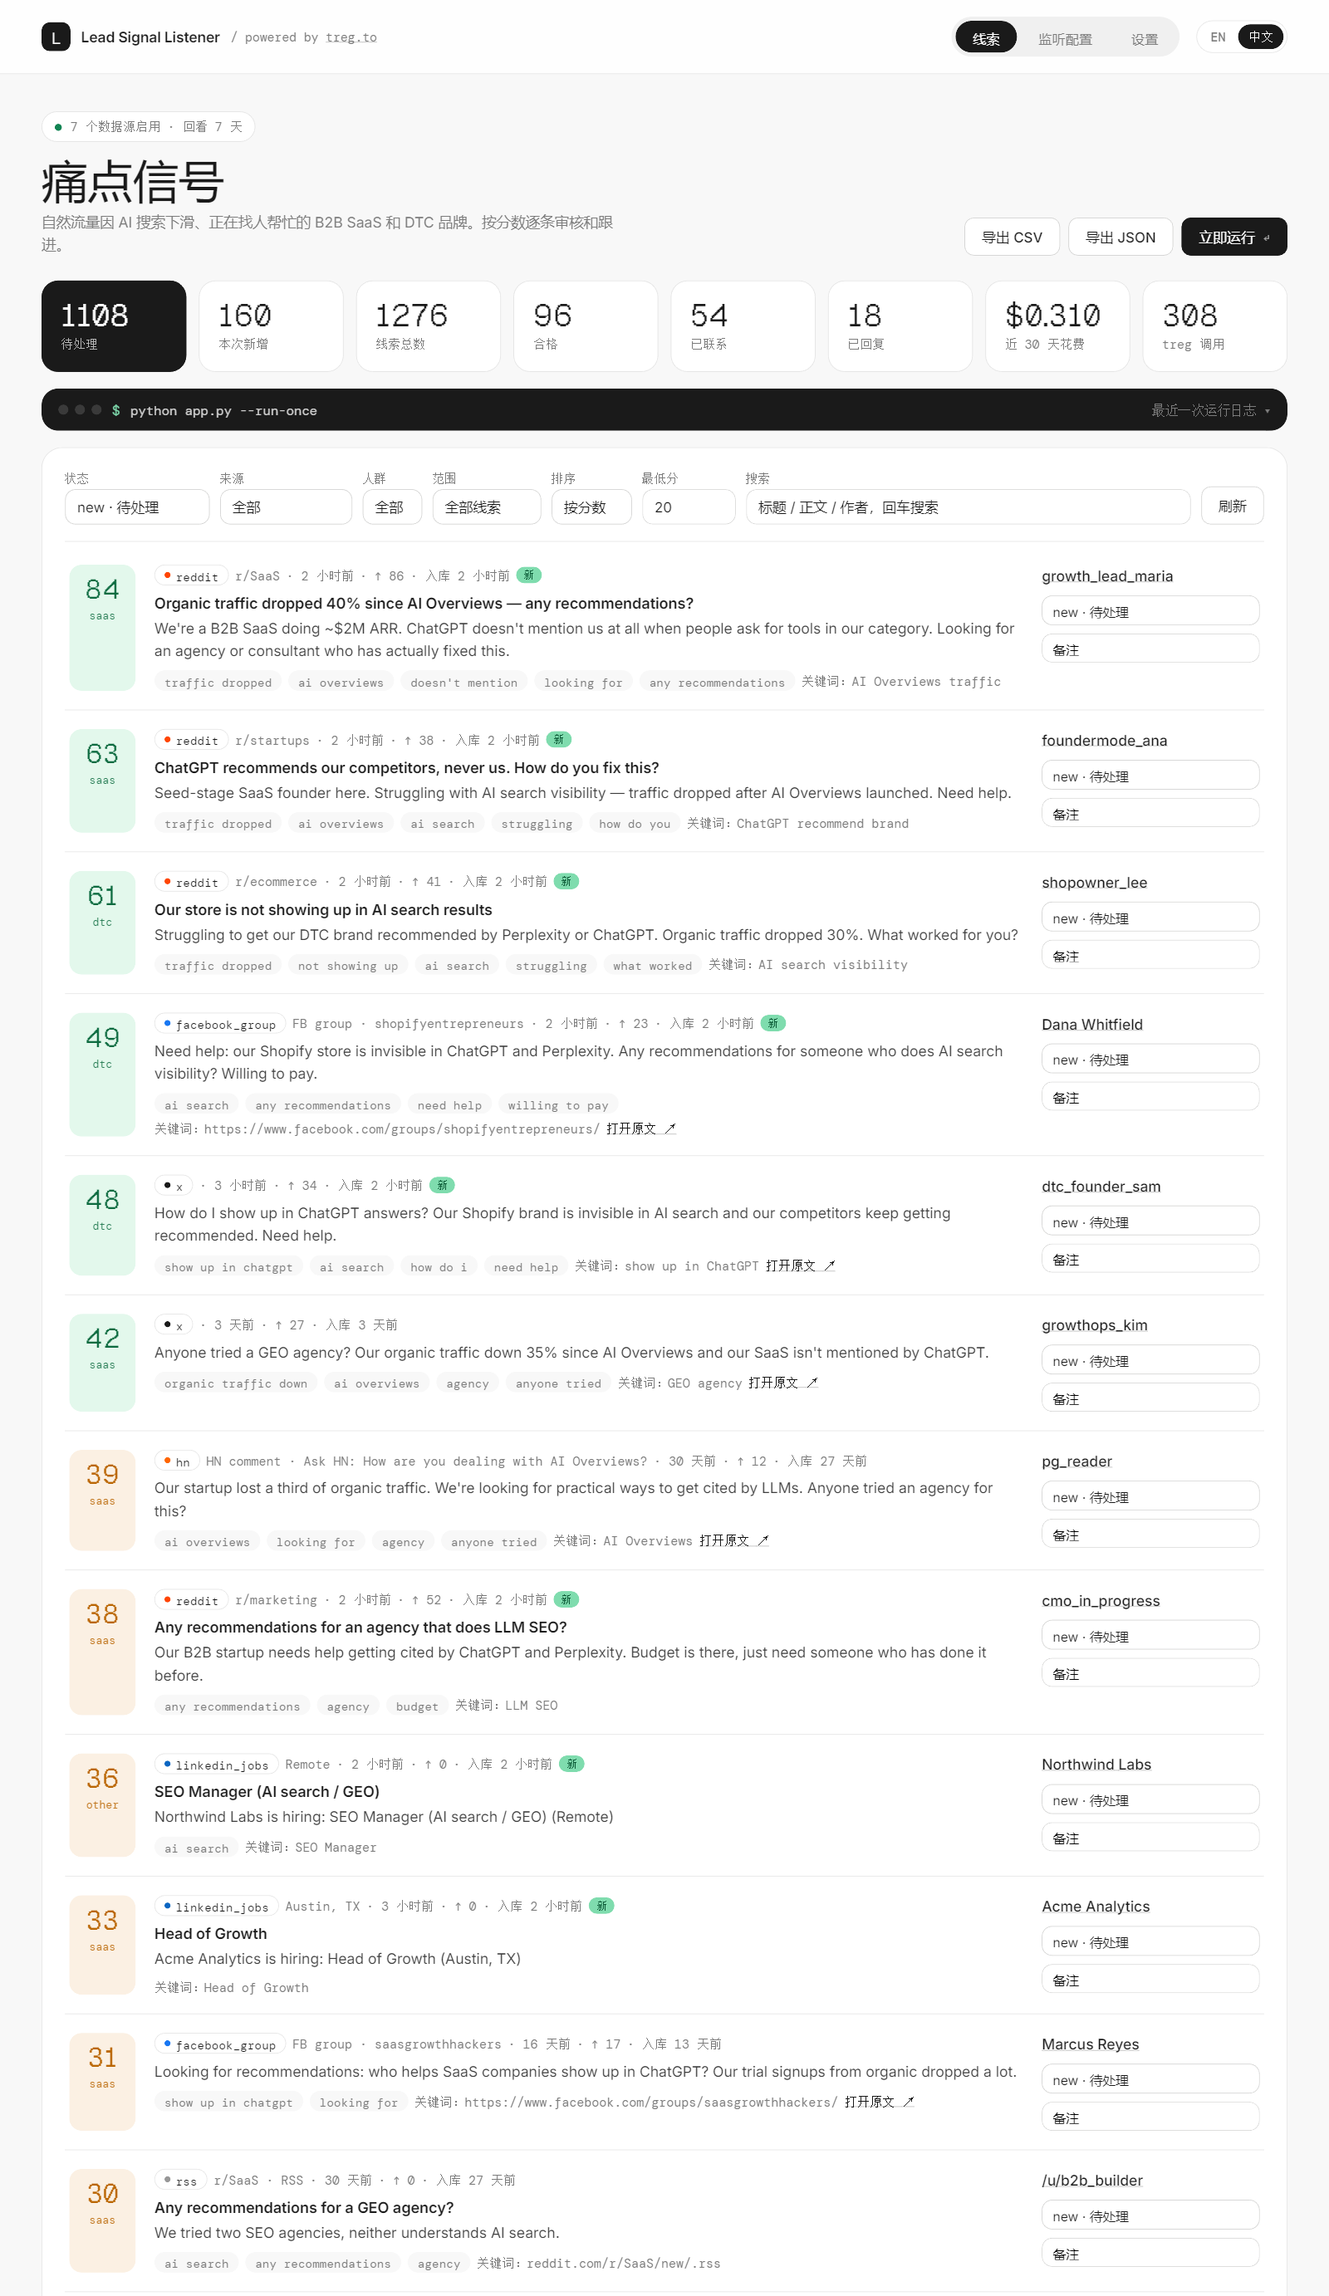
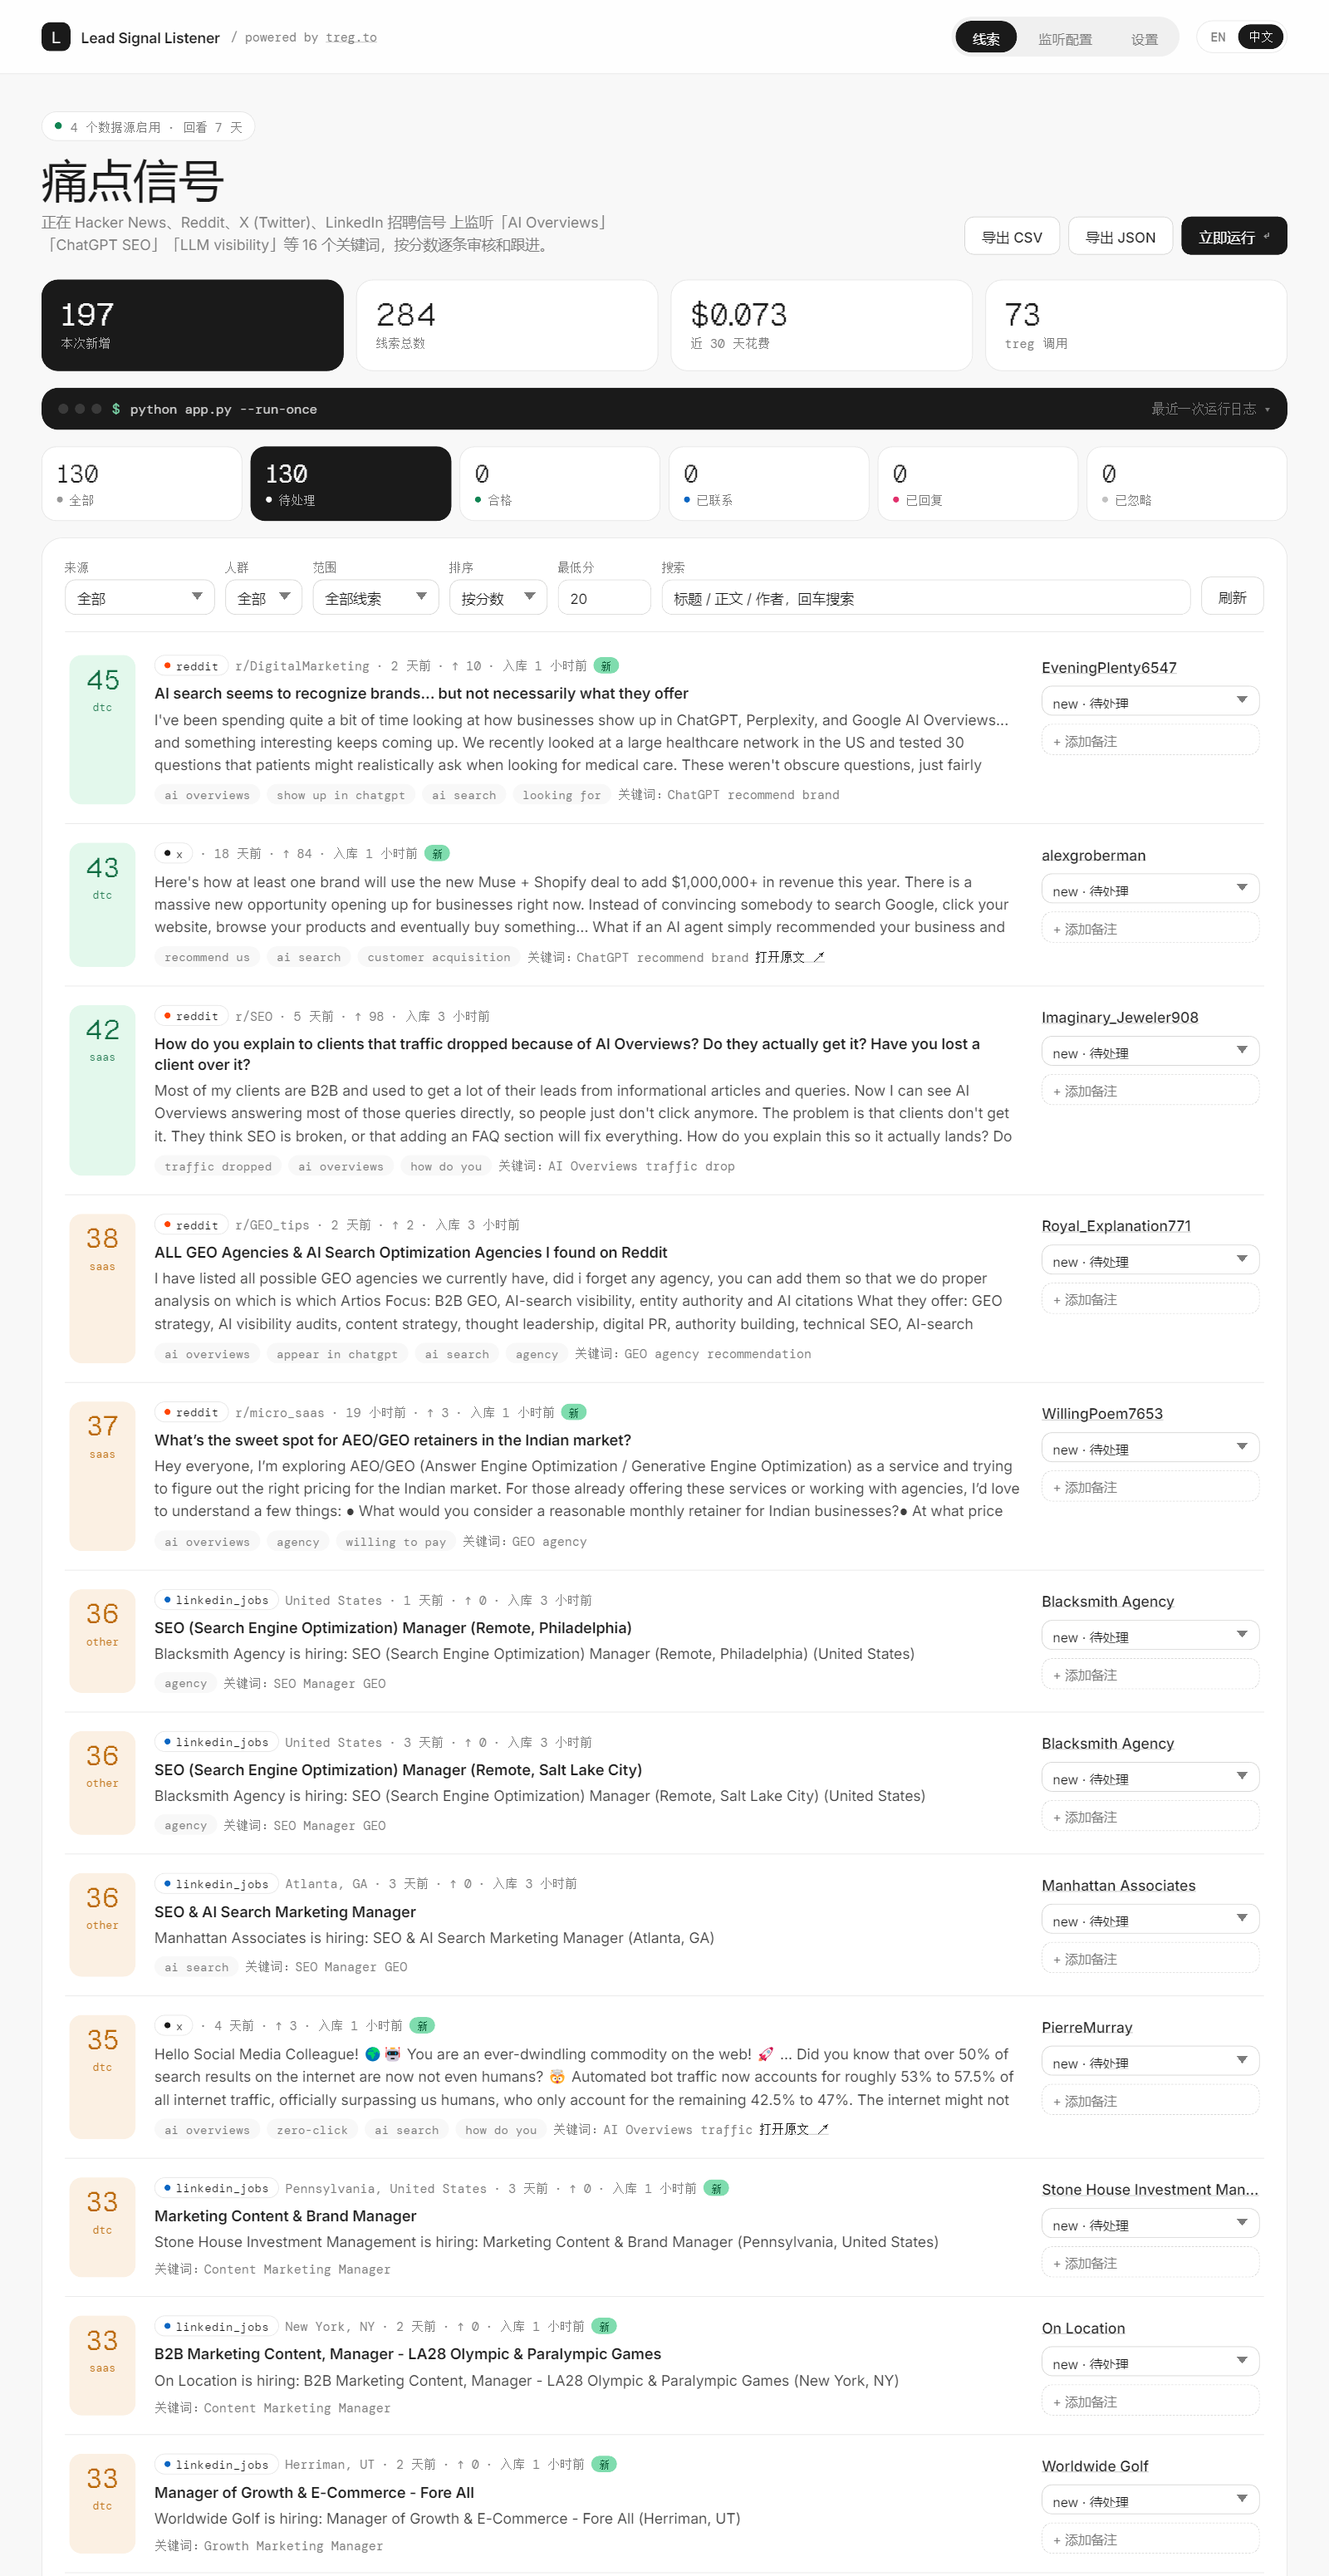
README: leads screenshots from a real run
Replace the demo-data leads screenshots (EN / 中文) with the dashboard
showing real results from one run of the default keywords.

diff --git a/README.md b/README.md
@@ -8,7 +8,7 @@ Lead Signal Listener is a local, open-source lead discovery tool. It listens to 
 
 **Built by [newmax.ai](https://newmax.ai)** · **Powered by [treg.to](https://treg.to)**
 
-![Leads dashboard: scored pain signals from Reddit, Facebook groups, X, LinkedIn, Instagram, HN and hiring signals](docs/screenshot-leads.png)
+![Leads dashboard: real pain signals from Reddit, X and LinkedIn hiring signals, scored and ranked](docs/screenshot-leads.png)
 
 <details>
 <summary><b>More screenshots</b>: listeners configuration (Facebook / Instagram, pages per keyword, one-click agent prompt)</summary>
@@ -17,7 +17,7 @@ Lead Signal Listener is a local, open-source lead discovery tool. It listens to 
 
 </details>
 
-<sub>Screenshots use fictional demo data.</sub>
+<sub>The leads screenshot shows real results from one run of the default keywords (284 leads, $0.073 in Treg calls). The listeners screenshot uses a demo configuration.</sub>
 
 ---
 
